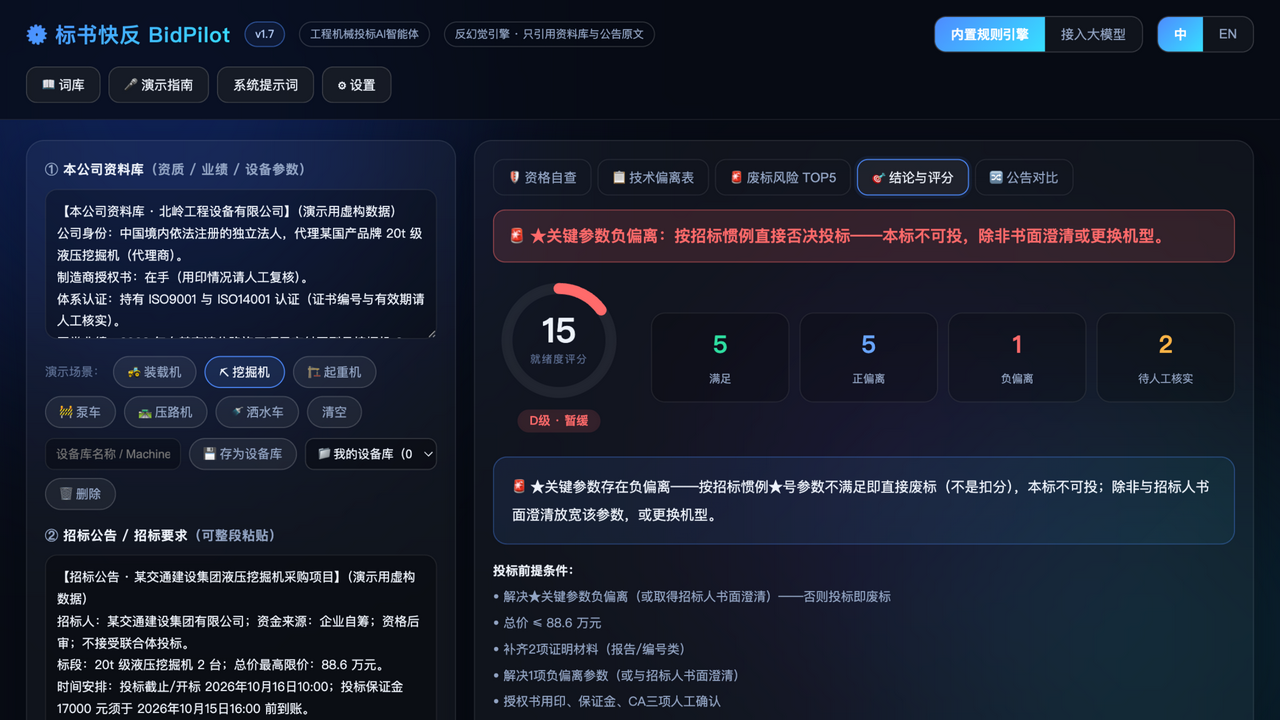
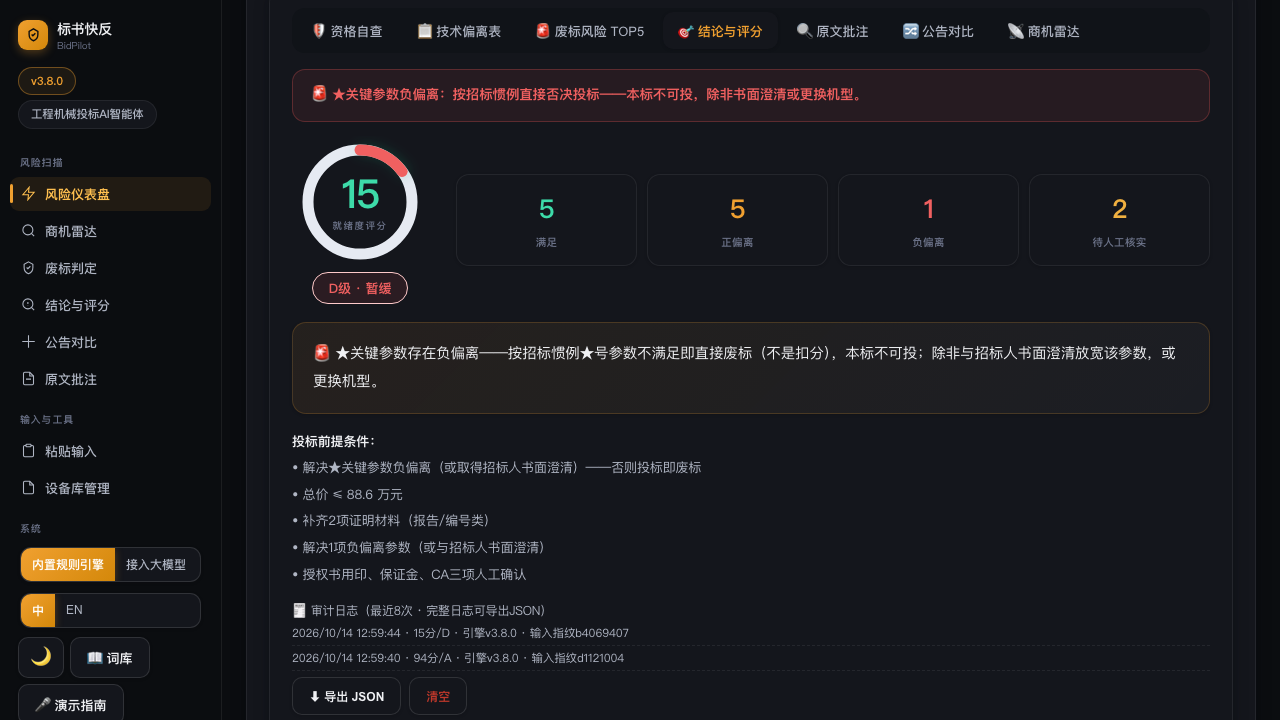
README产品截图更新为v3.8.0界面：风险仪表盘+检查中心六项检查+递交安全+技术偏离表跨单位换算+结论废标红条

diff --git a/README.md b/README.md
@@ -143,13 +143,19 @@
 
 内置演示数据（浙东机械/北岭设备）均为**虚构**，仅用于演示。
 
-## 产品截图
+## 产品截图（v3.8.0）
 
-| 资格自查页（速览卡+行动时间表·距开标41天） | 挖掘机场景（★关键参数负偏离→废标红条·15分/D级） |
+**风险仪表盘**（装载机演示场景：就绪度 94 分 · A 级建议投标；下方为 v3.8 检查中心——废标词 / 陷阱 / 递交 / 指纹 / 评分 / 别名六项检查集中收纳）：
+
+![风险仪表盘](docs/screenshots/1-qual-loader.png)
+
+| 技术偏离表（挖掘机场景：第4行 6.58m vs ≥6500mm 跨单位自动换算；★爬坡能力 65%<70% 记负偏离） | 结论与评分（敢于说不：★关键参数负偏离→本标不可投，15分/D级·暂缓，并列出投标前提条件） |
 |---|---|
-| ![资格自查](docs/screenshots/1-qual-loader.png) | ![废标判定](docs/screenshots/2-conclusion-excavator-kill.png) |
+| ![技术偏离表](docs/screenshots/3-deviation-table.png) | ![废标判定](docs/screenshots/2-conclusion-excavator-kill.png) |
 
-技术偏离表（★仅标记爬坡能力=段级定位；注意第4行 6.58m vs ≥6500mm 跨单位自动换算）：![偏离表](docs/screenshots/3-deviation-table.png)
+v3.8 检查中心 · 递交安全：开标日防滑单清单（解密时限 / CA / 网络隔离等）、保证金安全须知（附退款时限法条）、平台仪式清单（通用不见面开标 / 政采云系分站差异流程）：
+
+![递交安全检查](docs/screenshots/4-bidsafe-checkhub.png)
 
 ## 参赛文档
 
